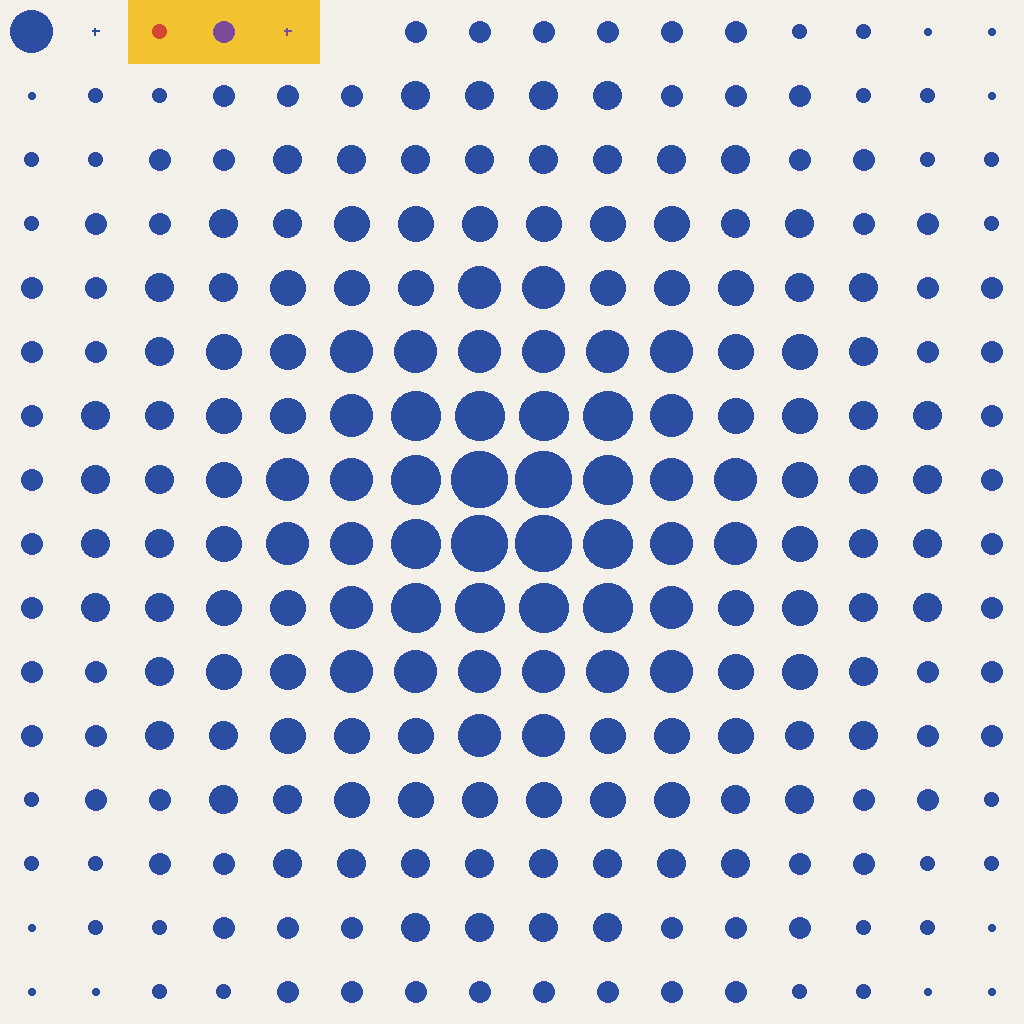
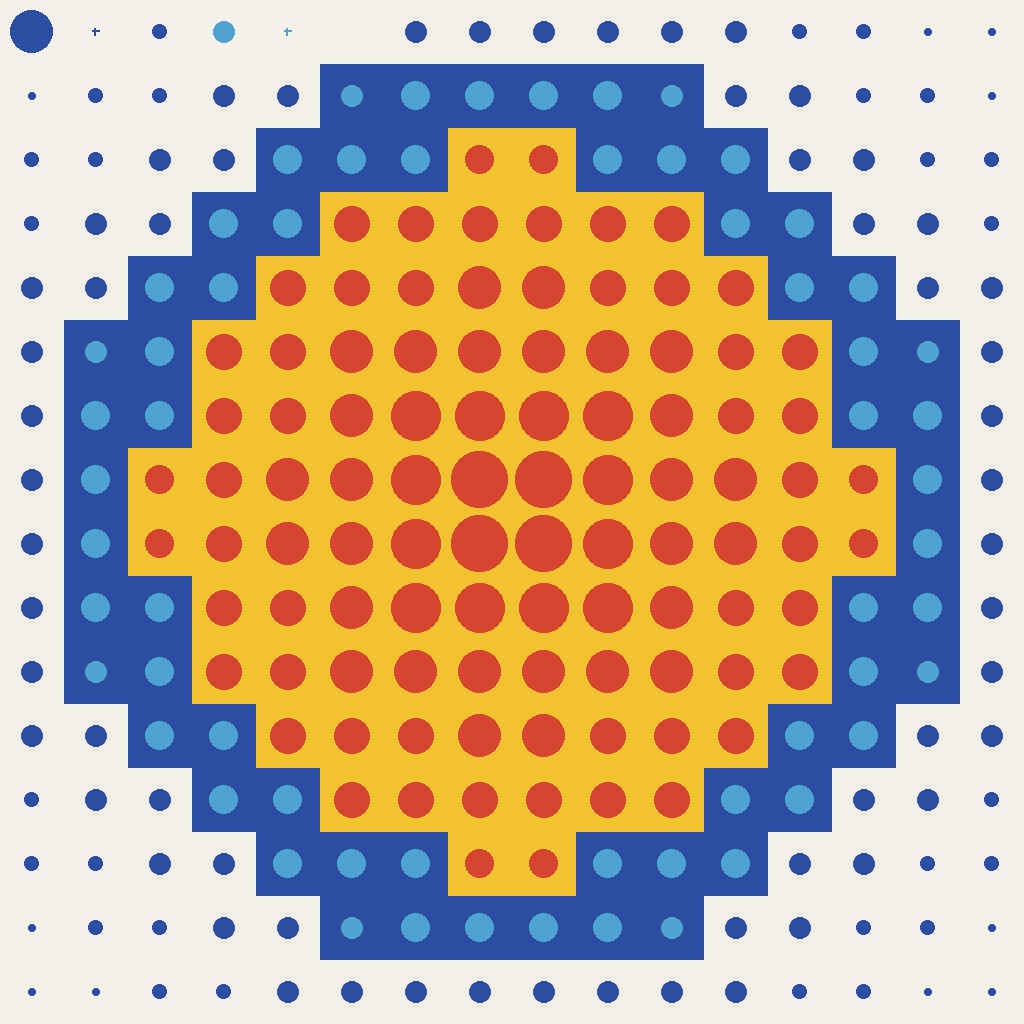
feat: rekey vega, and drop the strip that advertised its code
vega came through the encoding change as a monochrome swell in blue
where it had been one in black, because its ground was uniform and a
uniform ground under an offset encoding gives a uniform figure. Its
ground is now three concentric bands, spaced by a sphere's profile
rather than a circle's so they crowd toward the rim, and the figures
follow them: vermilion on the yellow core, sky on the cobalt ring,
cobalt on the cream field. The scale channel is untouched, asserted, as
the swell is what this plate exists to show.

The yellow strip over cells (2,0) to (4,0) is gone, and it was never a
compositional choice. Those cells had variant 1, which collided with
ground 1, and a non-void cell could not share its figure colour with its
ground, so they were forced onto a ground of their own and it happened
to announce where the code was. Offsets make the collision impossible,
so they now sit on the same cream as their neighbours.

Three stale claims in the header went with it, two of which predate this
branch: the void is at (5,0) not (2,0), the program is six cells not
three, 250 scales are free rather than 253, and "varied grounds would
compete with the gradient" is not true when the bands are concentric
with it. The README repeated the 253.

The round-trip test earned its keep here by catching the recompile I
forgot after editing the source.

diff --git a/tests/test_examples.py b/tests/test_examples.py
@@ -394,3 +394,18 @@ def test_folklore_uses_every_colour_as_both_ground_and_figure():
     figures = {c.figure for row in plate.cells for c in row if not c.is_void}
     assert grounds == set(range(8)), f"grounds {sorted(grounds)}"
     assert figures == set(range(8)), f"figures {sorted(figures)}"
+
+
+def test_vega_no_longer_needs_a_ground_that_advertises_its_code():
+    # This plate used to carry a yellow strip over cells (2,0) to (4,0), and
+    # not for compositional reasons: under the absolute encoding those cells'
+    # variant matched the cream ground, which was forbidden, so they were
+    # forced onto a different one. With variants as offsets the collision
+    # cannot arise, so the program sits on the same ground as its neighbours.
+    plate = notation.parse((EXAMPLES / "vega.vsr").read_text())
+    field = plate.at(8, 0).ground                     # the outer band
+    assert [plate.at(x, 0).ground for x in range(6)] == [field] * 6
+
+    # And the rekeyed ground gives the figures somewhere to go.
+    figures = {c.figure for row in plate.cells for c in row if not c.is_void}
+    assert len(figures) > 1, "the swell is still monochrome"

diff --git a/README.md b/README.md
@@ -105,11 +105,13 @@ Two channels are free, which is what lets code and picture coexist.
 the cell the eye stands on, and by a `get` aimed at that cell, so on every other
 cell it is free too.
 
-`examples/vega.vsr` uses this: three cells push 5 and print it, and the other
-253 are push instructions that never execute, their sizes a radial gradient that
-reads as a bulging sphere. The other plates do the same with whatever cells the
-eye never reaches. Void padding cannot carry a composition, since a void draws
-nothing and must have scale 0, so the padding is unreached push discs instead.
+`examples/vega.vsr` uses this: six cells push 5 and print it with a newline,
+and the other 250 are push instructions that never execute, their sizes a
+radial gradient that reads as a bulging sphere. Its ground is keyed in three
+concentric bands, and the figures follow them because the variant is an offset.
+The other plates do the same with whatever cells the eye never reaches. Void
+padding cannot carry a composition, since a void draws nothing and must have
+scale 0, so the padding is unreached push discs instead.
 
 `examples/kinetic.vsr` goes the other way and writes the field as it runs, so
 `vonal trace` on it produces frames that differ. `examples/kinetic.gif` is that
